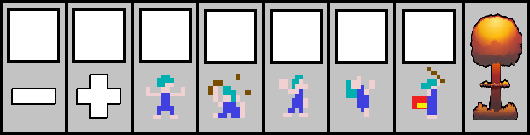
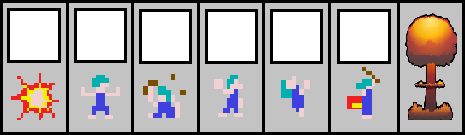
barra bien

diff --git a/Lemmings/02-Lemming/Scene.cpp b/Lemmings/02-Lemming/Scene.cpp
@@ -200,7 +200,7 @@ pair<bool, bool> Scene::mouseMoved(int mouseX, int mouseY, bool bLeftButton, boo
 
 		if (bLeftButton) {
 			clickOnAbility(mouseX, mouseY);
-			if (ability == 8) {
+			if (ability == 7) {
 				for (int i = 0; i < lemming.size(); i++) {
 					if (lemmingInit[i]) {
 						lemming[i].setAbility(ability);
@@ -288,9 +288,9 @@ void Scene::clickOnAbility(int mouseX, int mouseY) {
 	int x = mouseX / 3;
 	int y = mouseY / 3;
 	glm::vec2 positionPanel = panel.position();
-	float sizeX = 530.f / 3.f;
+	float sizeX = 465.f / 3.f;
 	float sizeY = 135.f / 3.f;
-	float sizeAbility = sizeX / 8.f;
+	float sizeAbility = sizeX / 7.f;
 
 	if (x > (positionPanel.x - 2) && x < (positionPanel.x + sizeX)) {
 		if (y > positionPanel.y && y < (positionPanel.y + sizeY)) {
@@ -303,7 +303,7 @@ void Scene::clickOnAbility(int mouseX, int mouseY) {
 					iconSelected.changeState(1);
 					ability = 1;
 				}
-				iconSelected.setPosition(9, 158);
+				iconSelected.setPosition(positionPanel.x - 1, 158);
 			}
 			else if (x > (positionPanel.x + sizeAbility - 2) && x < (positionPanel.x + sizeAbility * 2 - 2)) {
 				if (ability == 2) {
@@ -314,7 +314,7 @@ void Scene::clickOnAbility(int mouseX, int mouseY) {
 					iconSelected.changeState(1);
 					ability = 2;
 				}
-				iconSelected.setPosition(9 + sizeAbility, 158);
+				iconSelected.setPosition(positionPanel.x + sizeAbility, 158);
 			}
 			else if (x >(positionPanel.x + sizeAbility*2 - 2) && x < (positionPanel.x + sizeAbility * 3 - 2)) {
 				if (ability == 3) {
@@ -325,7 +325,7 @@ void Scene::clickOnAbility(int mouseX, int mouseY) {
 					iconSelected.changeState(1);
 					ability = 3;
 				}
-				iconSelected.setPosition(9 + sizeAbility*2, 158);
+				iconSelected.setPosition(positionPanel.x - 1 + sizeAbility*2, 158);
 			}
 			else if (x >(positionPanel.x + sizeAbility * 3 - 2) && x < (positionPanel.x + sizeAbility * 4 - 2)) {
 				if (ability == 4) {
@@ -336,7 +336,7 @@ void Scene::clickOnAbility(int mouseX, int mouseY) {
 					iconSelected.changeState(1);
 					ability = 4;
 				}
-				iconSelected.setPosition(9 + sizeAbility * 3, 158);
+				iconSelected.setPosition(positionPanel.x - 1 + sizeAbility * 3, 158);
 			}
 			else if (x >(positionPanel.x + sizeAbility * 4 - 2) && x < (positionPanel.x + sizeAbility * 5 - 2)) {
 				if (ability == 5) {
@@ -347,7 +347,7 @@ void Scene::clickOnAbility(int mouseX, int mouseY) {
 					iconSelected.changeState(1);
 					ability = 5;
 				}
-				iconSelected.setPosition(9 + sizeAbility * 4, 158);
+				iconSelected.setPosition(positionPanel.x - 1 + sizeAbility * 4, 158);
 			}
 			else if (x >(positionPanel.x + sizeAbility * 5 - 2) && x < (positionPanel.x + sizeAbility * 6 - 2)) {
 				if (ability == 6) {
@@ -356,9 +356,10 @@ void Scene::clickOnAbility(int mouseX, int mouseY) {
 				}
 				else {
 					iconSelected.changeState(1);
+					stop_Lemmings = true;
 					ability = 6;
 				}
-				iconSelected.setPosition(9 + sizeAbility * 5, 158);
+				iconSelected.setPosition(positionPanel.x - 1 + sizeAbility * 5, 158);
 			}
 			else if (x >(positionPanel.x + sizeAbility * 6 - 2) && x < (positionPanel.x + sizeAbility * 7 - 2)) {
 				if (ability == 7) {
@@ -367,21 +368,10 @@ void Scene::clickOnAbility(int mouseX, int mouseY) {
 				}
 				else {
 					iconSelected.changeState(1);
+					stop_Lemmings = true;
 					ability = 7;
 				}
-				iconSelected.setPosition(9 + sizeAbility * 6, 158);
-			}
-			else if (x >(positionPanel.x + sizeAbility * 7 - 2) && x < (positionPanel.x + sizeAbility * 8 - 2)) {
-				if (ability == 8) {
-					iconSelected.changeState(0);
-					ability = 0;
-				}
-				else {
-					iconSelected.changeState(1);
-					ability = 8;
-					stop_Lemmings = true;
-				}
-				iconSelected.setPosition(9 + sizeAbility * 7, 158);
+				iconSelected.setPosition(positionPanel.x - 1 + sizeAbility * 6, 158);
 			}
 		}
 	}

diff --git a/Lemmings/02-Lemming/Lemming.cpp b/Lemmings/02-Lemming/Lemming.cpp
@@ -439,16 +439,16 @@ bool Lemming::hayParado()
 }
 
 void Lemming::setAbility(int ability) {
-	if (ability == 4) {
-		state = DIG_STATE;
-		sprite->changeAnimation(DIG);
-	}
-	else if (ability == 3) {
+	if (ability == 2) {
 		state = BLOCKING_STATE;
 		sprite->changeAnimation(BLOCKING);
 		applyMask();
 	}
-	else if (ability == 5) {
+	else if (ability == 3) {
+		state = DIG_STATE;
+		sprite->changeAnimation(DIG);
+	}
+	else if (ability == 4) {
 		if (state == WALKING_LEFT_STATE) {
 			state = DIG_LEFT_STATE;
 			sprite->changeAnimation(DIG_LEFT);
@@ -458,8 +458,8 @@ void Lemming::setAbility(int ability) {
 			sprite->changeAnimation(DIG_RIGHT);
 		}
 	}
-	else if (ability == 6) climber = true;
-	else if (ability == 7) {
+	else if (ability == 5) climber = true;
+	else if (ability == 6) {
 		if (state == WALKING_LEFT_STATE) {
 			state = BUILDING_LEFT_STATE;
 			sprite->changeAnimation(BUILDING_LEFT);
@@ -473,7 +473,7 @@ void Lemming::setAbility(int ability) {
 		else if (state == BUILDING_LEFT_STATE || state == BUILDING_RIGHT_STATE) numberOfStairs = 0;
 	}
 
-	else if (ability == 8) {
+	else if (ability == 7) {
 		state = EXPLODE_STATE;
 		sprite->changeAnimation(EXPLODING);
 	}

diff --git a/Lemmings/02-Lemming/IconPanel.cpp b/Lemmings/02-Lemming/IconPanel.cpp
@@ -14,7 +14,7 @@ void IconPanel::init(const glm::vec2 &initialPosition, ShaderProgram &shaderProg
 	spritesheet.loadFromFile("images/icon_panel_sinfondo.png", TEXTURE_PIXEL_FORMAT_RGBA);
 	spritesheet.setMinFilter(GL_NEAREST);
 	spritesheet.setMagFilter(GL_NEAREST);
-	sprite = Sprite::createSprite(glm::ivec2(530.f / 3.f, 135.f / 3.f), glm::vec2(1.f, 1.f), &spritesheet, &shaderProgram);
+	sprite = Sprite::createSprite(glm::ivec2(465.f / 3.f, 135.f / 3.f), glm::vec2(1.f, 1.f), &spritesheet, &shaderProgram);
 	sprite->setNumberAnimations(1);
 
 	sprite->setAnimationSpeed(NORMAL, 0);
